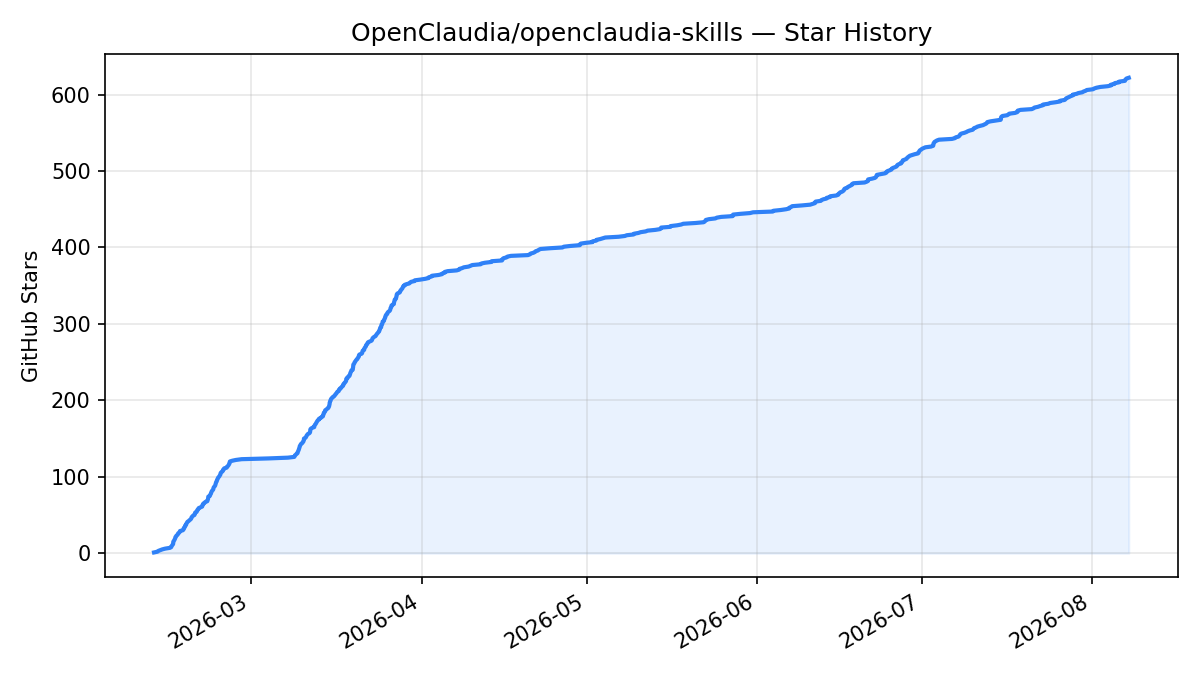
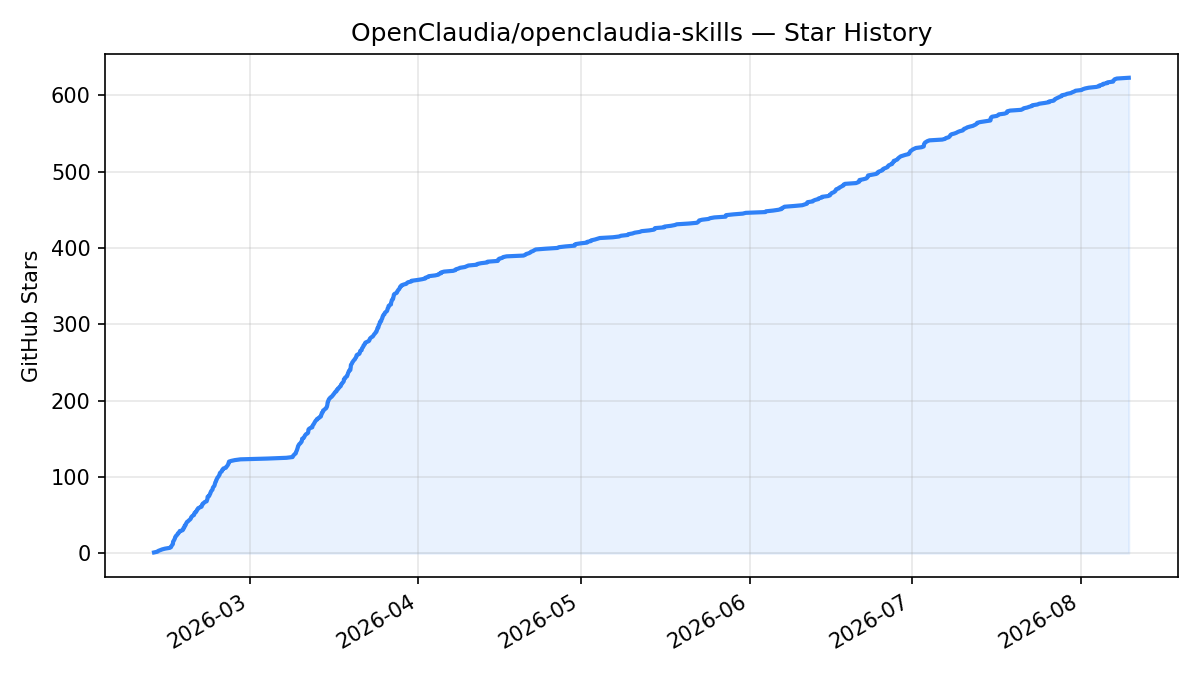
readme: refresh star chart (623 stars)

diff --git a/README.md b/README.md
@@ -330,7 +330,7 @@ MIT — see [LICENSE](LICENSE)
 
 ![Star History Chart](assets/star-history.png)
 
-<sub>Updated 2026-08-07. GitHub [restricted the stargazers API](https://github.blog/changelog/2026-06-30-upcoming-access-restrictions-to-public-api-endpoints-and-ui-views/) in June 2026, so the live star-history.com badge no longer renders; this chart is generated from the repo's own star data.</sub>
+<sub>Updated 2026-08-09. GitHub [restricted the stargazers API](https://github.blog/changelog/2026-06-30-upcoming-access-restrictions-to-public-api-endpoints-and-ui-views/) in June 2026, so the live star-history.com badge no longer renders; this chart is generated from the repo's own star data.</sub>
 
 ---
 
